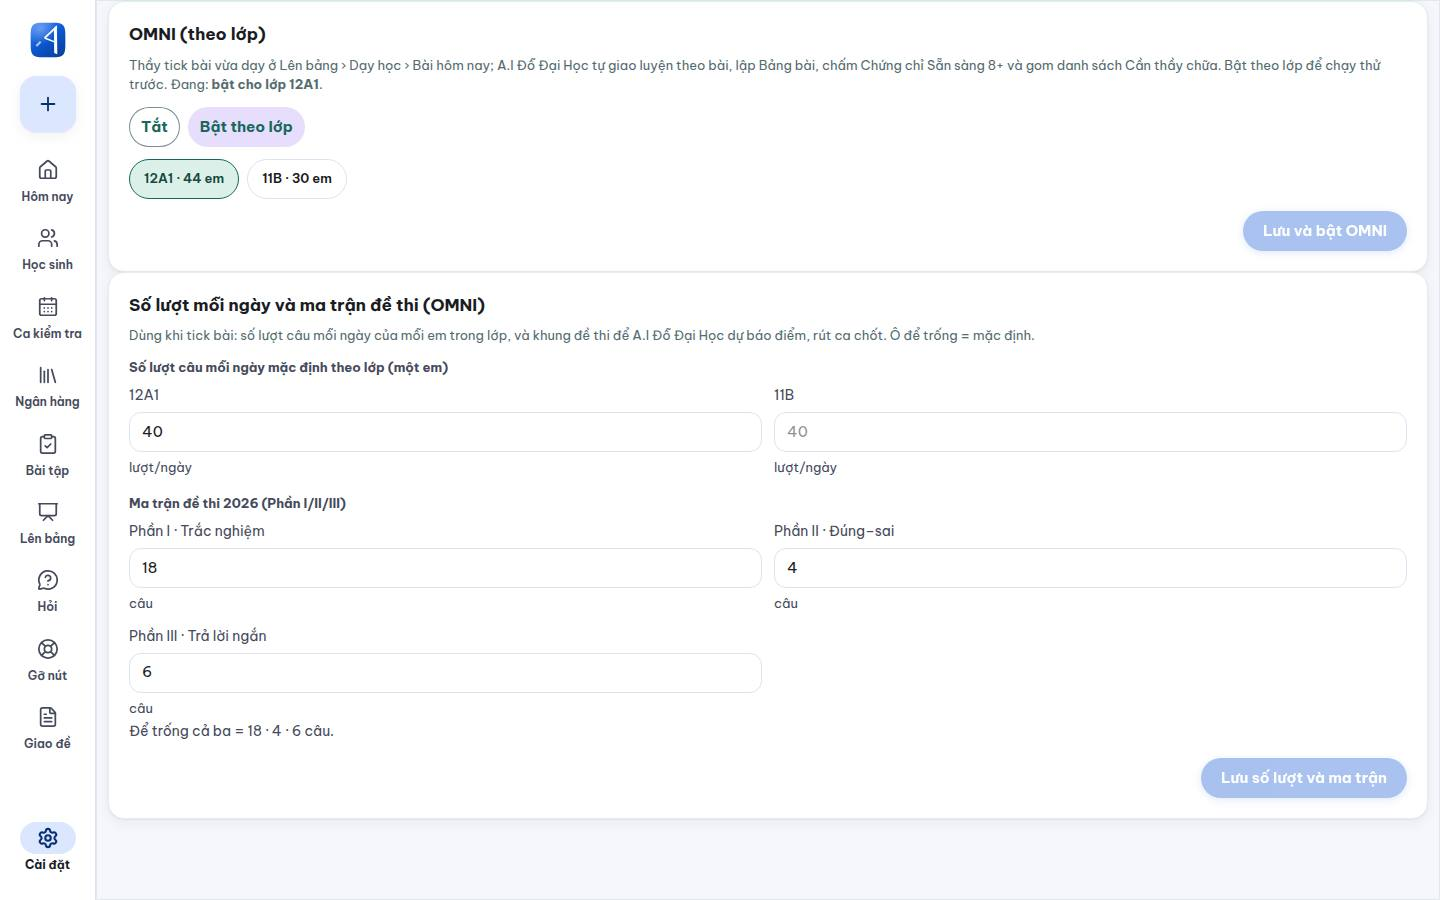
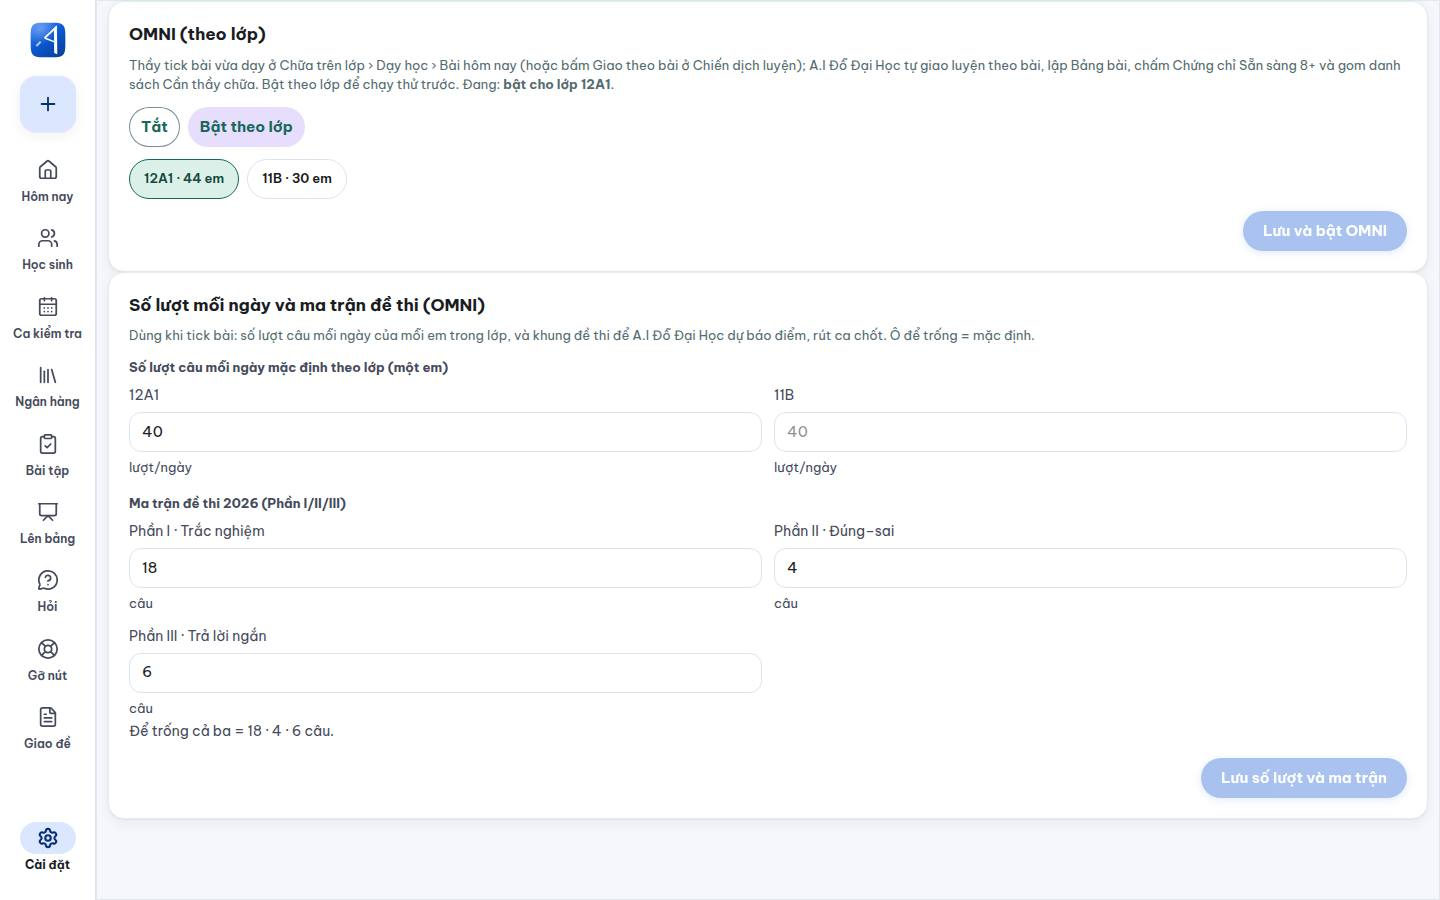
App thầy: sửa tên mục trong chữ hướng dẫn tick bài (Chữa trên lớp, không phải Lên bảng) ở thẻ Cài đặt OMNI + gợi ý nút Giao theo bài; ảnh ĐƯỜNG ĐI tới bước Bài hôm nay (thanh bên Chữa bài → tab Dạy học → bước 4) chụp bằng thành phần thật; bảng chuẩn từ ngữ ghi đúng tên mục
Thầy 06/10: "Tôi không thấy chỗ này" — bước Bài hôm nay là bước 4 của tab Dạy học (phải cuộn xuống), mục ở thanh bên tên "Chữa bài" khi bật Game Hóa 2.0; chữ cũ ghi "Lên bảng".

Claude-Session: https://claude.ai/code/session_01CNsQjeB4jcWjbMohw272Tz

Changed region(s): [[0.0938, 0.0622, 0.9688, 0.1244]]

diff --git a/scripts/chup-omni-3/trang.tsx b/scripts/chup-omni-3/trang.tsx
@@ -32,6 +32,8 @@ import BangChienDich from '../../src/components/chien-dich/BangChienDich'
 import CongTacOmni from '../../src/components/chien-dich/CongTacOmni'
 import ThanhBenTrai from '../../src/components/ThanhBenTrai'
 import TongQuanScreen from '../../src/screens/TongQuanScreen'
+import GoiLenBangScreen from '../../src/screens/GoiLenBangScreen'
+import ChienDichScreen from '../../src/screens/ChienDichScreen'
 import { useCoHoa2 } from '../../src/components/chien-dich/co-hoa2'
 import { useAppStore } from '../../src/store/appStore'
 import { BANG, NOW_BANG, OMNI_BANG } from './gia/bang-gv'
@@ -197,13 +199,16 @@ const con =
   : man.startsWith('dao-') ? h(Dao2, { sbd: 'GIA', profile: hoSoDao, call: callDao, doanMo: false, sanhDau: SANH, onMoDoan: noop, onMoSoTay: noop, onDong: noop })
   : man === 'de-thu' ? (datViecOmniDao('de-thu'), h(Dao2, { sbd: 'GIA', profile: hoSoDao, call: callDao, doanMo: false, sanhDau: SANH, onMoDoan: noop, onMoSoTay: noop, onDong: noop })) // đúng đường app thật: nút Đề thử ở Sảnh ⇒ Đảo mở màn đề thử trong khung `.dao2`
   : man === 'gv-bai' ? h(DayHocLenBang)
+  // ĐƯỜNG ĐI thật tới "Bài hôm nay" (thầy 06/10 "Tôi không thấy chỗ này"): Game Hóa 2.0 bật ⇒ thanh bên "Chữa trên lớp" → thẻ "Dạy học"; và "Chiến dịch luyện" → nút "Giao theo bài".
+  : man === 'gv-len-bang' ? (useCoHoa2.getState().dat({ bat: true, lop: [], sbd: [] }), h(GoiLenBangScreen))
+  : man === 'gv-chien-dich' ? (useCoHoa2.getState().dat({ bat: true, lop: [], sbd: [] }), h(ChienDichScreen))
   : man === 'gv-bang-cu' || man === 'gv-bang-omni'
     ? h(BangChienDich, { du: BANG, nowMs: NOW_BANG, dangChieu: false, onChieu: async () => true, onDaChua: noop, omni: man === 'gv-bang-omni' ? OMNI_BANG : null, onOmniDoi: noop } as never)
   : man === 'gv-cai-dat' ? h(CongTacOmni)
   : man === 'gv-tong-quan' ? (useCoHoa2.getState().dat({ bat: true, lop: [], sbd: [] }), h(TongQuanScreen)) // màn đầu app thầy khi Game Hóa 2.0 bật
   : manSanh(SANH)
 // Màn thầy: dựng ĐÚNG khung App.tsx (thanh bên trái thật + khung nội dung) để bố cục, màu như app thầy thật.
-const MAN_THAY: Record<string, string> = { 'gv-bai': 'goilenbang', 'gv-bang-cu': 'goilenbang', 'gv-bang-omni': 'goilenbang', 'gv-cai-dat': 'caidat', 'gv-tong-quan': 'tongquan' }
+const MAN_THAY: Record<string, string> = { 'gv-bai': 'goilenbang', 'gv-bang-cu': 'goilenbang', 'gv-bang-omni': 'goilenbang', 'gv-cai-dat': 'caidat', 'gv-tong-quan': 'tongquan', 'gv-len-bang': 'goilenbang', 'gv-chien-dich': 'chiendich' }
 const manThay = MAN_THAY[man]
 if (manThay) useAppStore.setState({ screen: manThay as never })
 createRoot(document.getElementById('root')!).render(

diff --git a/src/components/chien-dich/CongTacOmni.tsx b/src/components/chien-dich/CongTacOmni.tsx
@@ -97,7 +97,7 @@ export default function CongTacOmni() {
       <TheNoiDung>
         <h2 style={{ fontSize: 'var(--cx-3)', fontWeight: 700, marginBottom: 'var(--k2)' }}>OMNI (theo lớp)</h2>
         <p style={{ marginBottom: 'var(--k3)', fontSize: 'var(--cx-1)', color: 'var(--nhat)' }}>
-          Thầy tick bài vừa dạy ở Lên bảng › Dạy học › Bài hôm nay; {TEN_AI} tự giao luyện theo bài, lập Bảng bài, chấm Chứng chỉ Sẵn sàng 8+ và gom danh sách Cần thầy
+          Thầy tick bài vừa dạy ở Chữa trên lớp › Dạy học › Bài hôm nay (hoặc bấm Giao theo bài ở Chiến dịch luyện); {TEN_AI} tự giao luyện theo bài, lập Bảng bài, chấm Chứng chỉ Sẵn sàng 8+ và gom danh sách Cần thầy
           chữa. Bật theo lớp để chạy thử trước. Đang: <b data-trang-thai-omni>{loiDoc && !co ? 'chưa đọc được' : chuTrangThaiOmni(co)}</b>.
         </p>
         <div role="radiogroup" aria-label="OMNI (theo lớp)" className="cd-cong-tac">

diff --git a/scripts/chup-omni-3/gia/may-thay.ts b/scripts/chup-omni-3/gia/may-thay.ts
@@ -38,7 +38,7 @@ const CHAT_LUONG: Record<string, Record<string, unknown>> = {
     ngayToiDong: { trungVi: 3.5, n: 8, du: false }, cauLaCungDang: tl(11, 19), lapNguyenVan: tl(9, 23), boKhacKhoi: 0, soEmCoLuot: 26 },
 }
 /** Cảnh Tổng quan: thêm chiến dịch + cờ Game Hóa 2.0 CHỈ cho cảnh này (các cảnh khác giữ đúng câu trả lời cũ ⇒ ảnh cũ không đổi). */
-const LA_TONG_QUAN = new URLSearchParams(globalThis.location?.search ?? '').get('man') === 'gv-tong-quan'
+const LA_TONG_QUAN = ['gv-tong-quan', 'gv-len-bang', 'gv-chien-dich'].includes(new URLSearchParams(globalThis.location?.search ?? '').get('man') ?? '') // + hai cảnh đường đi (06/10): cũng cần cờ Game Hóa 2.0 + chiến dịch
 
 type KQ = { ok: true; du: Record<string, unknown> } | { ok: false; loai: string; chu: string }
 export async function traLoiThay(duong: string, b: Record<string, unknown>): Promise<KQ> {

diff --git a/src/components/chien-dich/NutGiaoTheoBai.tsx b/src/components/chien-dich/NutGiaoTheoBai.tsx
@@ -29,7 +29,7 @@ export default function NutGiaoTheoBai({ className = 'gv2-nut-vien' }: { classNa
     setScreen('goilenbang')
   }
   return (
-    <button type="button" className={className} onClick={mo} title={`Tick bài vừa dạy ⇒ ${TEN_AI} tự giao luyện theo bài (Lên bảng › Dạy học › Bài hôm nay)`}>
+    <button type="button" className={className} onClick={mo} title={`Tick bài vừa dạy ⇒ ${TEN_AI} tự giao luyện theo bài (Chữa trên lớp › Dạy học › Bài hôm nay)`}>
       Giao theo bài
     </button>
   )

diff --git a/docs/CHUAN-TU-NGU-VA-GIAO-DIEN.md b/docs/CHUAN-TU-NGU-VA-GIAO-DIEN.md
@@ -46,7 +46,7 @@ Người giữ: Boss. Mọi phiên làm giao diện ĐỌC tệp này trước k
 | Dạng em sai nhiều | App thầy: **Dạng em đang yếu**. Màn học sinh/phụ huynh: **Dạng em đang luyện thêm** | yếu kém, hổng |
 | Bảng mỗi em nhận câu nào | **Xem trước phân bổ** (app thầy) | — |
 | Bài thầy đã tích (đã dạy) mà em đang luyện trong chiến dịch theo bài (OMNI 05/10) | **Bài đang luyện** (Sảnh học sinh: "Bài đang luyện · Bài 6 · Ester"); nhiều bài song song thì liệt kê, hạn gần trước. App phụ huynh giữ tiêu đề thẻ cũ "Chiến dịch của con" (lệnh giữ nguyên giao diện), tên bài ở dòng phụ | bài hiện tại, bài active, khoá bài/mã bài làm tên |
-| Bước thầy tích bài vừa dạy để app tự giao luyện theo bài (thẻ DẠY HỌC ở mục Lên bảng) và nút mở cùng luồng ở mục Chiến dịch (app thầy, OMNI 05/10) | **Bài hôm nay** (tên bước, nhãn trên cây) · **Giao theo bài** (tên nút); trạng thái bài trên cây: "Đã dạy 22/09" · "Đang luyện" · "Chưa dạy" | Đánh dấu đã dạy, Tạo chiến dịch theo bài, auto giao |
+| Bước thầy tích bài vừa dạy để app tự giao luyện theo bài (thẻ DẠY HỌC ở mục **Chữa trên lớp** — tên mục ở thanh bên khi bật Game Hóa 2.0; chưa bật thì mục tên "Gọi lên bảng") và nút mở cùng luồng ở mục Chiến dịch (app thầy, OMNI 05/10) | **Bài hôm nay** (tên bước, nhãn trên cây) · **Giao theo bài** (tên nút); trạng thái bài trên cây: "Đã dạy 22/09" · "Đang luyện" · "Chưa dạy" | Đánh dấu đã dạy, Tạo chiến dịch theo bài, auto giao |
 | Lớp chưa có bài mới được tích: kế hoạch nhẹ (nợ → duy trì → ôn bài cũ) (OMNI 05/10) | **Chờ bài mới** — màn em: "Đang ôn bài cũ, chờ thầy giao bài mới."; app thầy (từ ngày chờ thứ 3): "Lớp 12A1: 3 ngày chưa có bài mới" | chế độ chờ / chế độ nhẹ (chữ hiển thị), nghỉ học, hết bài |
 | Câu của các bài dạy TRƯỚC bài đang luyện, xếp vào kế hoạch ngày theo dạng yếu (OMNI 05/10) | **Ôn bài cũ** ("Hôm nay ôn bài cũ: 3 câu") | Ôn lại (dành cho câu từng sai theo lịch — dòng trên), ôn tập cũ, review |
 | Dạng em đã đạt "vững" theo luật một chỗ ở `server/src/omni-kieu.ts` (SPRT + đủ bằng chứng) (OMNI 05/10) | **Dạng vững** ("Dạng vững 2/9"); dạng chưa vững mà còn cần cho mốc 8 là **dạng cần vững** (em: "Còn 3 dạng cần vững để chạm mốc 8"; phụ huynh: "Dạng cần vững: …") | dạng thành thạo (thành thạo dành cho CÂU), nắm chắc, master, khoá dạng |
